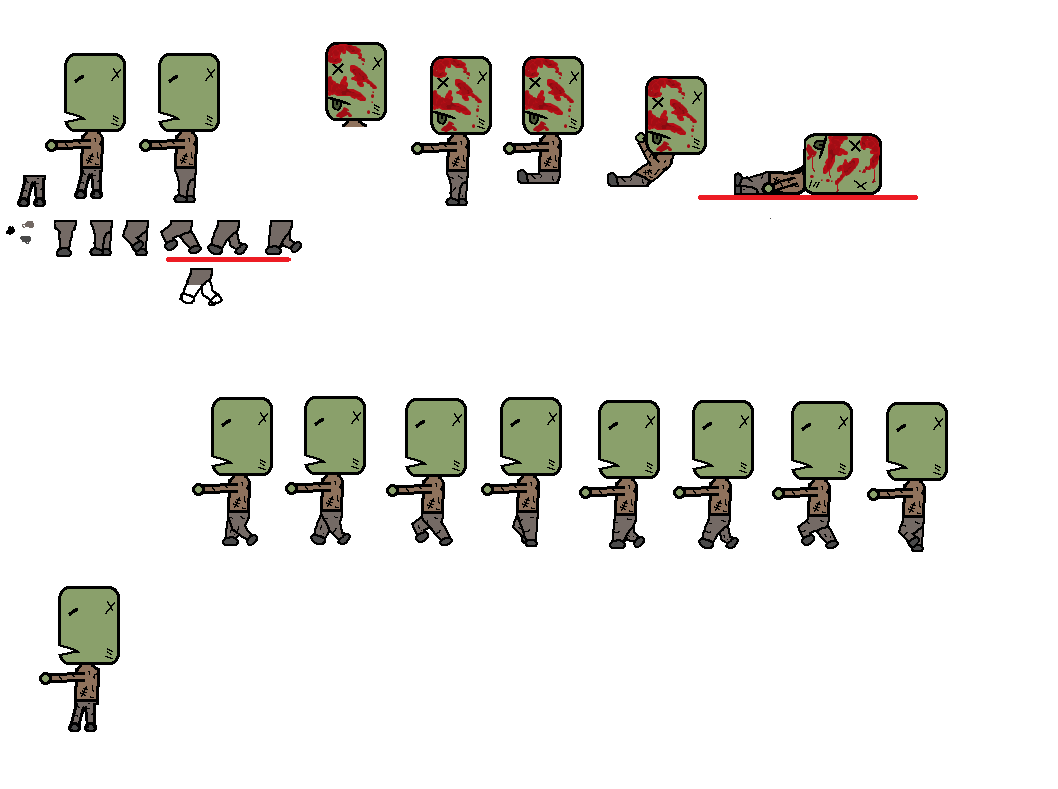
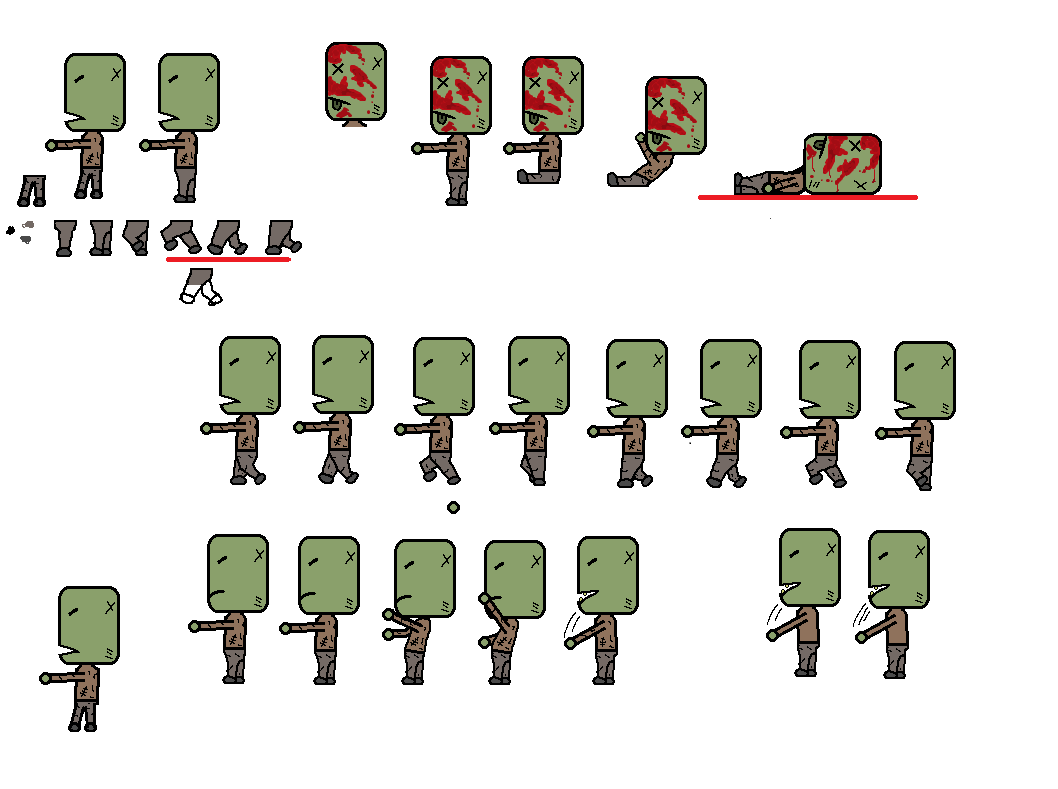
Zombie attack (anim) added

Changed region(s): [[0.156, 0.4259, 0.9045, 0.8821]]

diff --git a/Assets/Scripts/ZombieCollision.cs b/Assets/Scripts/ZombieCollision.cs
@@ -5,6 +5,7 @@ public class ZombieCollision : MonoBehaviour {
 
 	Animator anim;
 	ZombieMovement zombieMovementScript;
+	bool bAttack;
 
 	void Start () {
 		anim = GetComponent<Animator> ();
@@ -12,8 +13,18 @@ public class ZombieCollision : MonoBehaviour {
 	}
 
 	public void OnHeadCollision(Collision2D coll) {
-		if (coll.collider.gameObject.tag == "Fork" && zombieMovementScript.IsAlive ()) {
+		if (coll.collider.gameObject.tag == "Fork") {
 			KillZombie();
+		} else if (coll.collider.gameObject.tag == "Player") {
+			bAttack = true;
+			anim.SetBool("Attack", true);
+		}
+	}
+
+	public void OnHeadCollisionOff(Collision2D coll) {
+		if (bAttack) {
+			bAttack = false;
+			anim.SetBool("Attack", false);
 		}
 	}
 
@@ -27,6 +38,6 @@ public class ZombieCollision : MonoBehaviour {
 		transform.FindChild ("ZombieTorso").gameObject.layer = deadEnemyLayer;
 
 		anim.SetTrigger ("Death");
-		zombieMovementScript.OnDeath();
+		zombieMovementScript.EnableMovement (false);
 	}
 }

diff --git a/Assets/Scripts/ZombieMovement.cs b/Assets/Scripts/ZombieMovement.cs
@@ -12,7 +12,7 @@ public class ZombieMovement : MonoBehaviour {
 	
 	Transform zombieTransform;
 	Vector2 speedVector;
-	bool bIsAlive = true;
+	bool bShouldMove = true;
 	//Vector2 gravityVector;
 	
 	void Awake () {
@@ -27,15 +27,15 @@ public class ZombieMovement : MonoBehaviour {
 		//zombieRigidBody.AddForce (speedVector);
 		//zombieRigidBody.position += speedVector * Time.deltaTime;
 		//zombieRigidBody.MovePosition (zombieRigidBody.position + (speedVector + gravityVector) * Time.deltaTime);
-		if (bIsAlive)
+		if (bShouldMove)
 			zombieTransform.Translate (speedVector * Time.deltaTime);
 	}
 
-	public void OnDeath() {
-		bIsAlive = false;
+	public void EnableMovement(bool newMovementState) {
+		bShouldMove = newMovementState;
 	}
 
-	public bool IsAlive() {
-		return bIsAlive;
+	public bool ShouldMove() {
+		return bShouldMove;
 	}
 }

diff --git a/Assets/Scripts/ZombieHeadCollision.cs b/Assets/Scripts/ZombieHeadCollision.cs
@@ -12,4 +12,8 @@ public class ZombieHeadCollision : MonoBehaviour {
 	void OnCollisionEnter2D(Collision2D coll) {
 		zombieCollisionScript.OnHeadCollision (coll);
 	}
+
+	void OnCollisionExit2D(Collision2D coll) {
+		zombieCollisionScript.OnHeadCollisionOff (coll);
+	}
 }
